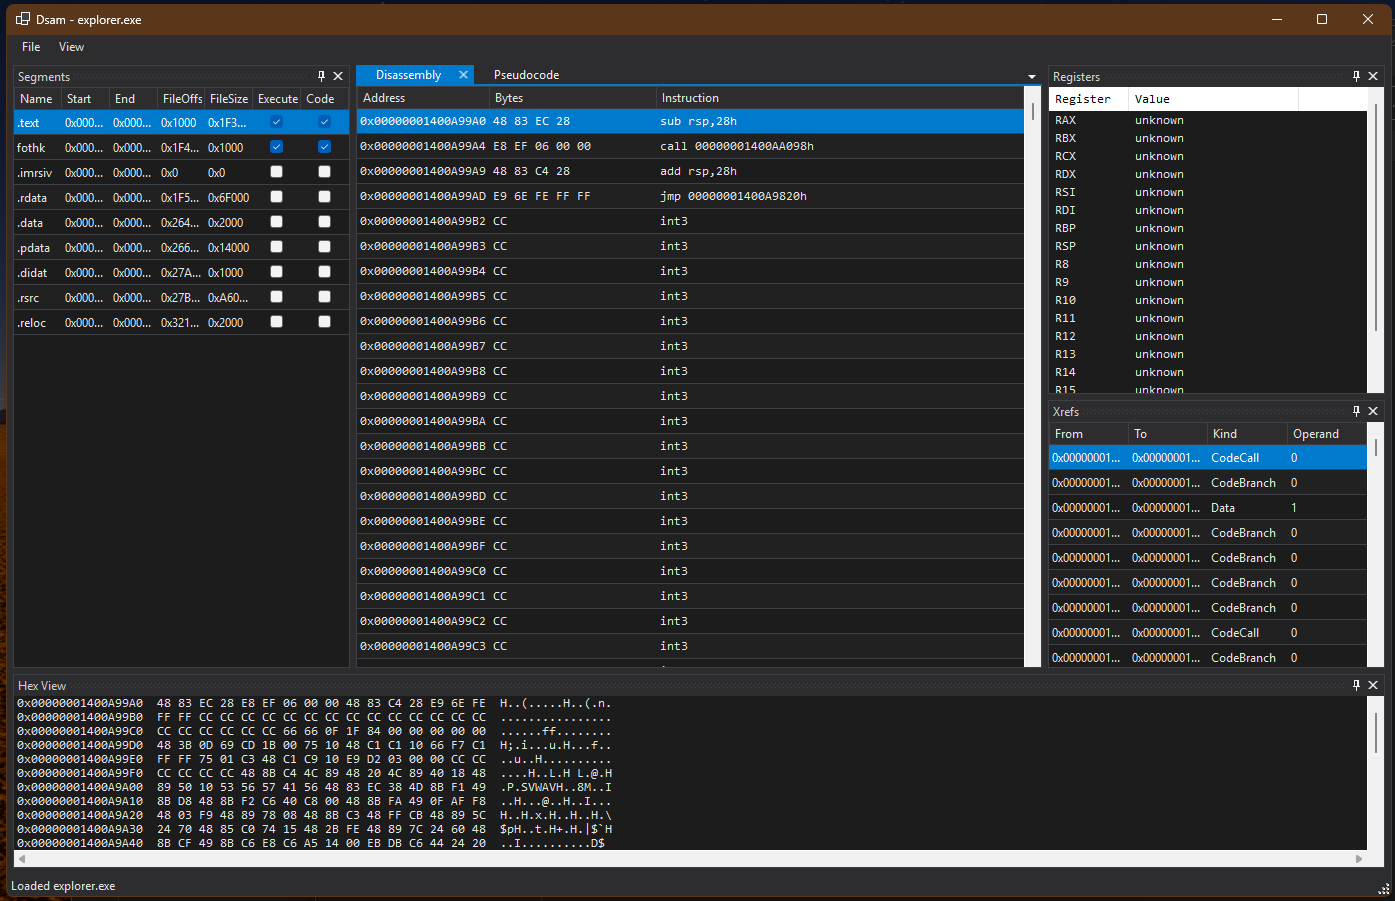
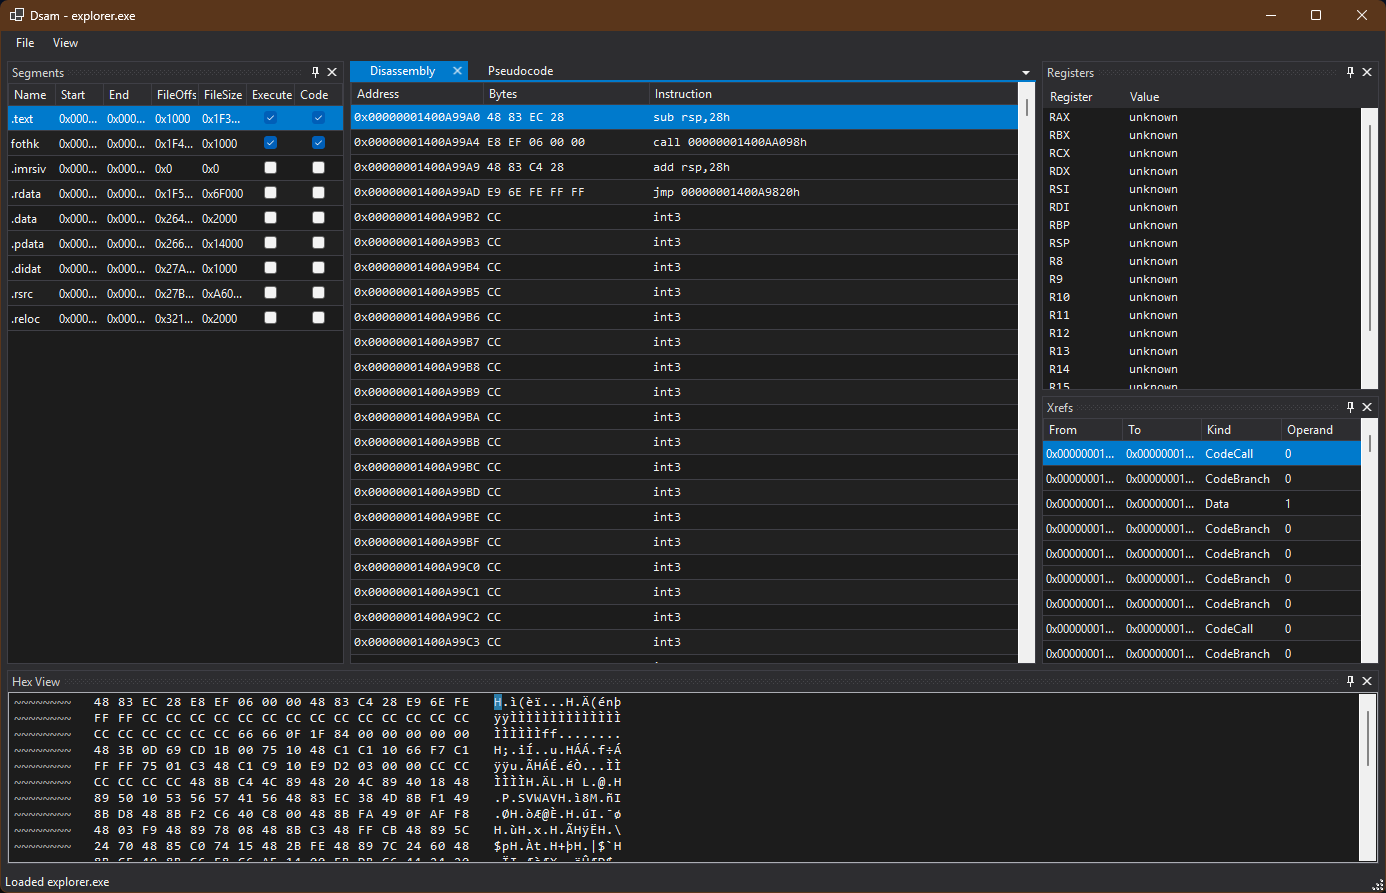
feat: Implement full dark mode and HexBox component

Changed region(s): [[0.0, 0.0, 1.0, 1.0]]

diff --git a/src/Dsam.App/Docking/HexViewDockContent.cs b/src/Dsam.App/Docking/HexViewDockContent.cs
@@ -1,4 +1,5 @@
-using System.Text;
+using System.Drawing;
+using Be.Windows.Forms;
 using Dsam.App.Ui;
 using WeifenLuo.WinFormsUI.Docking;
 
@@ -6,7 +7,7 @@ namespace Dsam.App.Docking;
 
 public sealed class HexViewDockContent : DockContent
 {
-    private readonly TextBox _textBox;
+    private readonly HexBox _hexBox;
 
     public HexViewDockContent()
     {
@@ -14,46 +15,33 @@ public sealed class HexViewDockContent : DockContent
         TabText = "Hex View";
         HideOnClose = true;
 
-        _textBox = new TextBox
+        _hexBox = new HexBox
         {
-            BackColor = DsamColors.Grid,
-            BorderStyle = BorderStyle.None,
             Dock = DockStyle.Fill,
-            Font = new Font("Consolas", 9F),
+            Font = new Font("Consolas", 9.75F),
+            LineInfoVisible = true,
+            StringViewVisible = true,
+            UseFixedBytesPerLine = true,
+            VScrollBarVisible = true,
+            BytesPerLine = 16,
+
+            // Dark theme colors
+            BackColor = DsamColors.Grid,
             ForeColor = DsamColors.Text,
-            Multiline = true,
-            ReadOnly = true,
-            ScrollBars = ScrollBars.Both,
-            WordWrap = false
+            InfoForeColor = DsamColors.MutedText,
+            SelectionBackColor = DsamColors.Accent,
+            SelectionForeColor = Color.White,
+            ShadowSelectionColor = Color.FromArgb(100, 60, 188, 255)
         };
-        Controls.Add(_textBox);
+        Controls.Add(_hexBox);
     }
 
     public void SetBytes(ulong baseAddress, byte[] bytes)
     {
-        var builder = new StringBuilder(bytes.Length * 4);
-        for (var offset = 0; offset < bytes.Length; offset += 16)
-        {
-            var count = Math.Min(16, bytes.Length - offset);
-            builder.Append($"0x{baseAddress + (ulong)offset:X16}  ");
-
-            for (var i = 0; i < 16; i++)
-            {
-                builder.Append(i < count ? $"{bytes[offset + i]:X2} " : "   ");
-            }
-
-            builder.Append(" ");
-            for (var i = 0; i < count; i++)
-            {
-                var value = bytes[offset + i];
-                builder.Append(value is >= 32 and <= 126 ? (char)value : '.');
-            }
-
-            builder.AppendLine();
-        }
-
-        _textBox.Text = builder.ToString();
+        var provider = new DynamicByteProvider(bytes ?? Array.Empty<byte>());
+        _hexBox.ByteProvider = provider;
+        _hexBox.LineInfoOffset = (long)baseAddress;
     }
 
-    public void Clear() => _textBox.Clear();
+    public void Clear() => _hexBox.ByteProvider = null;
 }

diff --git a/src/Dsam.App/Docking/RegistersDockContent.cs b/src/Dsam.App/Docking/RegistersDockContent.cs
@@ -22,20 +22,33 @@ public sealed class RegistersDockContent : DockContent
 
         _listView = new ListView
         {
-            BackColor = DsamColors.Grid,
             BorderStyle = BorderStyle.None,
             Dock = DockStyle.Fill,
             Font = new Font("Consolas", 9F),
-            ForeColor = DsamColors.Text,
             FullRowSelect = true,
             HeaderStyle = ColumnHeaderStyle.Nonclickable,
             View = View.Details
         };
         _listView.Columns.Add("Register", 80);
         _listView.Columns.Add("Value", 170);
+        _listView.BackColor = DsamColors.Grid;
+        _listView.ForeColor = DsamColors.Text;
+        _listView.HeaderStyle = ColumnHeaderStyle.None;
         Controls.Add(_listView);
 
-        Reset();
+        var header = new Panel
+        {
+            Dock = DockStyle.Top,
+            Height = 25,
+            BackColor = DsamColors.Header
+        };
+        header.Paint += (sender, e) =>
+        {
+            using var brush = new SolidBrush(DsamColors.Text);
+            e.Graphics.DrawString("Register", Font, brush, new PointF(5, 5));
+            e.Graphics.DrawString("Value", Font, brush, new PointF(85, 5));
+        };
+        Controls.Add(header);
     }
 
     public void Reset()

diff --git a/src/Dsam.App/Ui/DsamColors.cs b/src/Dsam.App/Ui/DsamColors.cs
@@ -2,12 +2,13 @@ namespace Dsam.App.Ui;
 
 internal static class DsamColors
 {
-    public static readonly Color Window = Color.FromArgb(30, 30, 30);
-    public static readonly Color Panel = Color.FromArgb(37, 37, 38);
-    public static readonly Color Grid = Color.FromArgb(28, 28, 28);
-    public static readonly Color Header = Color.FromArgb(45, 45, 48);
-    public static readonly Color Text = Color.FromArgb(230, 230, 230);
-    public static readonly Color MutedText = Color.FromArgb(170, 170, 170);
-    public static readonly Color Accent = Color.FromArgb(0, 122, 204);
-    public static readonly Color Border = Color.FromArgb(63, 63, 70);
+    // VS2015 Dark Theme-like colors
+    public static readonly Color Window = Color.FromArgb(45, 45, 48); // Dark background for forms
+    public static readonly Color Panel = Color.FromArgb(37, 37, 38);  // Background for panels
+    public static readonly Color Grid = Color.FromArgb(28, 28, 28);   // Background for grids and text boxes
+    public static readonly Color Header = Color.FromArgb(45, 45, 48); // Background for headers, menus, status strips
+    public static readonly Color Text = Color.FromArgb(241, 241, 241); // Main text color
+    public static readonly Color MutedText = Color.FromArgb(160, 160, 160); // Muted text color
+    public static readonly Color Accent = Color.FromArgb(0, 122, 204);   // Accent color for selection
+    public static readonly Color Border = Color.FromArgb(63, 63, 70);   // Border color
 }

diff --git a/src/Dsam.App/Docking/DisassemblyDockContent.cs b/src/Dsam.App/Docking/DisassemblyDockContent.cs
@@ -37,8 +37,15 @@ public sealed class DisassemblyDockContent : DockContent
             FillWeight = 55
         });
         _grid.DataSource = _bindingSource;
-        _grid.CellFormatting += (_, e) => e.CellStyle.Font = new Font("Consolas", 9F);
+        _grid.CellFormatting += (_, e) =>
+        {
+            e.CellStyle.Font = new Font("Consolas", 9F);
+        };
         _grid.SelectionChanged += (_, _) => RaiseCurrentInstructionChanged();
+        _grid.EnableHeadersVisualStyles = false;
+        _grid.ColumnHeadersDefaultCellStyle.BackColor = DsamColors.Header;
+        _grid.ColumnHeadersDefaultCellStyle.ForeColor = DsamColors.Text;
+        _grid.ColumnHeadersBorderStyle = DataGridViewHeaderBorderStyle.Single;
         Controls.Add(_grid);
     }
 

diff --git a/src/Dsam.App/Docking/PseudocodeDockContent.cs b/src/Dsam.App/Docking/PseudocodeDockContent.cs
@@ -15,17 +15,16 @@ public sealed class PseudocodeDockContent : DockContent
 
         _textBox = new TextBox
         {
-            BackColor = DsamColors.Grid,
-            BorderStyle = BorderStyle.None,
             Dock = DockStyle.Fill,
             Font = new Font("Consolas", 9F),
-            ForeColor = DsamColors.Text,
             Multiline = true,
             ReadOnly = true,
             ScrollBars = ScrollBars.Both,
             WordWrap = false
         };
 
+        _textBox.BackColor = DsamColors.Grid;
+        _textBox.ForeColor = DsamColors.Text;
         Controls.Add(_textBox);
         SetText("// Open a binary to generate C# pseudocode.");
     }

diff --git a/src/Dsam.App/MainForm.cs b/src/Dsam.App/MainForm.cs
@@ -39,6 +39,7 @@ public sealed class MainForm : Form
         BackColor = DsamColors.Window;
 
         Controls.Add(CreateDockPanel());
+
         Controls.Add(CreateStatusStrip());
         Controls.Add(CreateMenu());
 
@@ -53,7 +54,8 @@ public sealed class MainForm : Form
         var menu = new MenuStrip
         {
             BackColor = DsamColors.Header,
-            ForeColor = DsamColors.Text
+            ForeColor = DsamColors.Text,
+            Renderer = new ToolStripProfessionalRenderer(new DsamColorTable())
         };
 
         var fileMenu = new ToolStripMenuItem("&File");
@@ -68,6 +70,7 @@ public sealed class MainForm : Form
         viewMenu.DropDownItems.Add("Registers", null, (_, _) => ShowContent(_registersView, DockState.DockRight));
         viewMenu.DropDownItems.Add("Segments", null, (_, _) => ShowContent(_sectionsView, DockState.DockLeft));
         viewMenu.DropDownItems.Add("Xrefs", null, (_, _) => ShowContent(_xrefsView, DockState.DockRight));
+
 
         menu.Items.Add(fileMenu);
         menu.Items.Add(viewMenu);